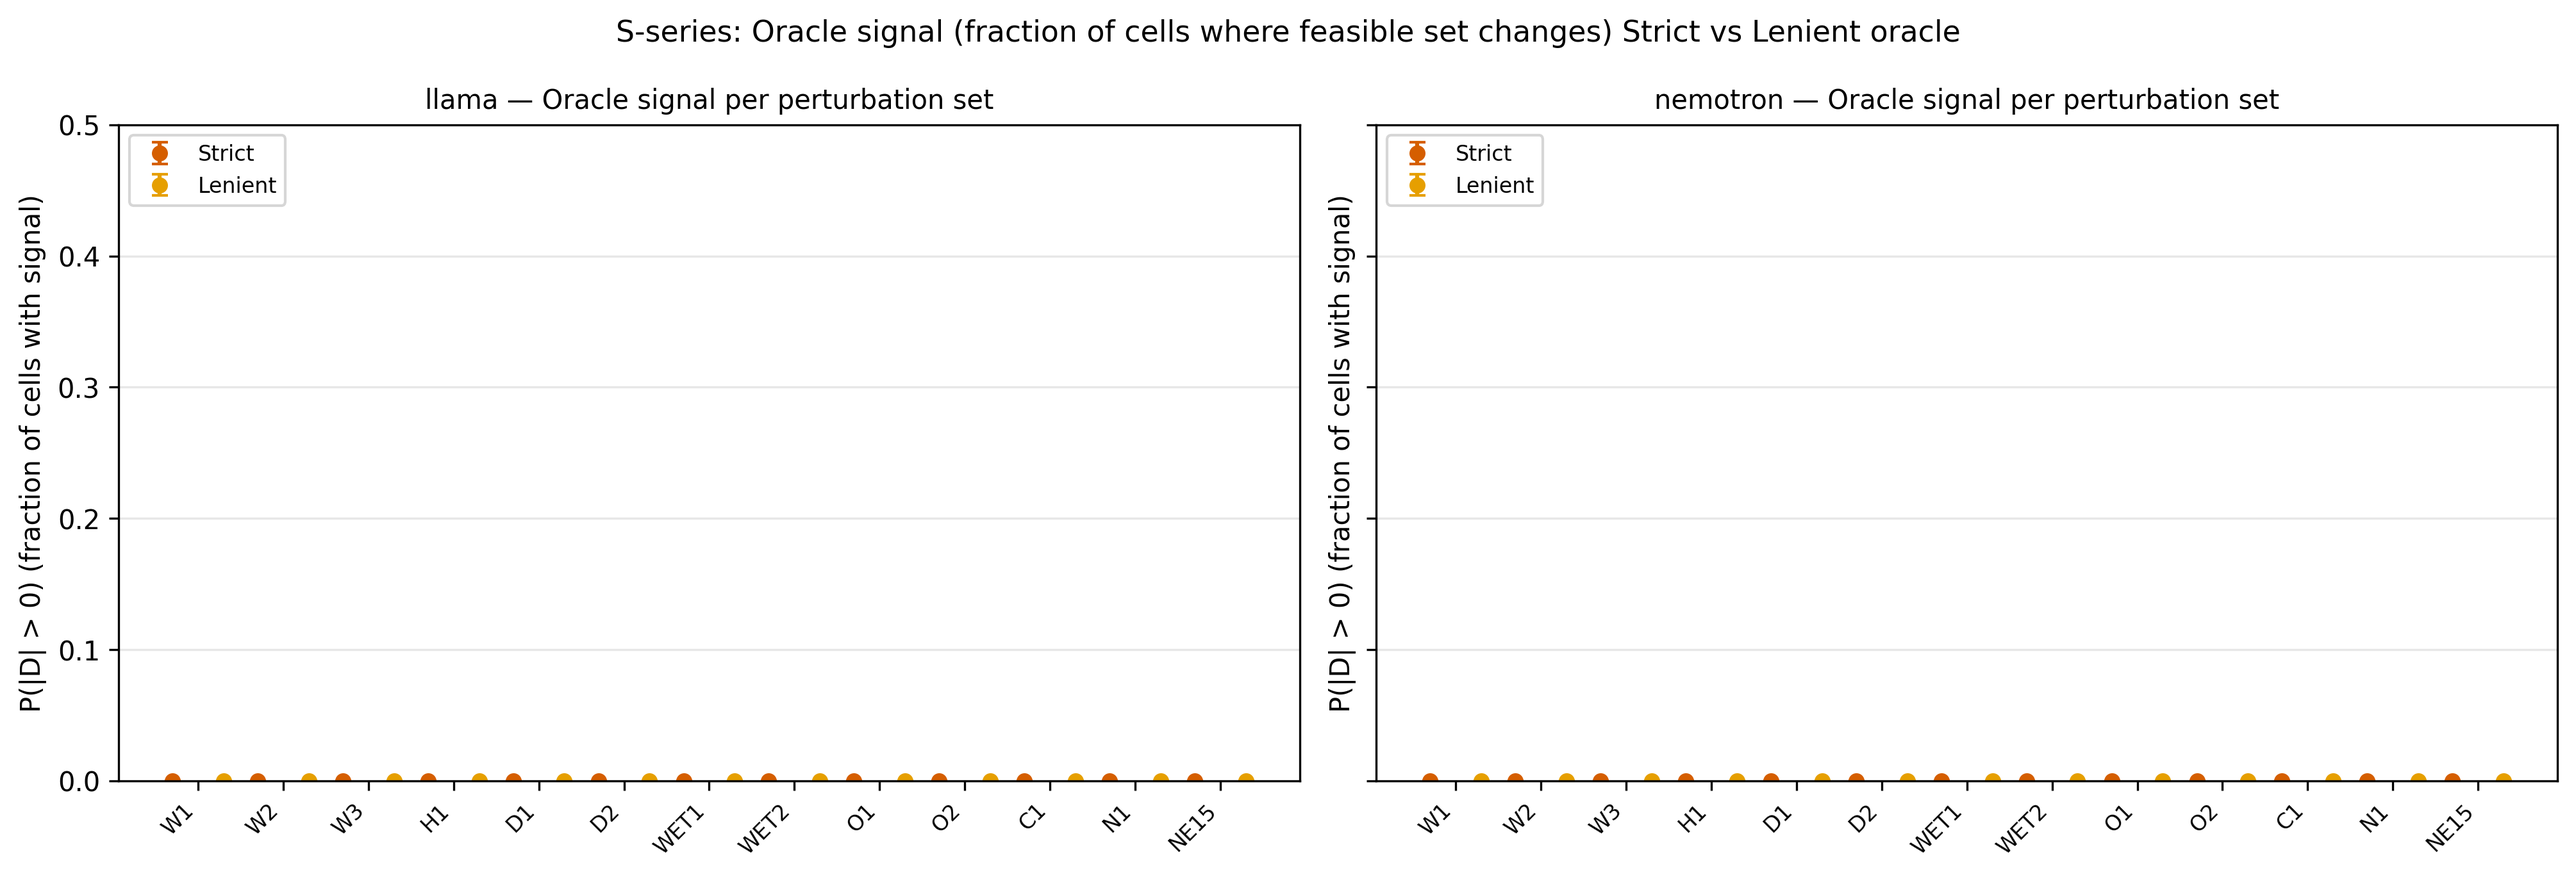
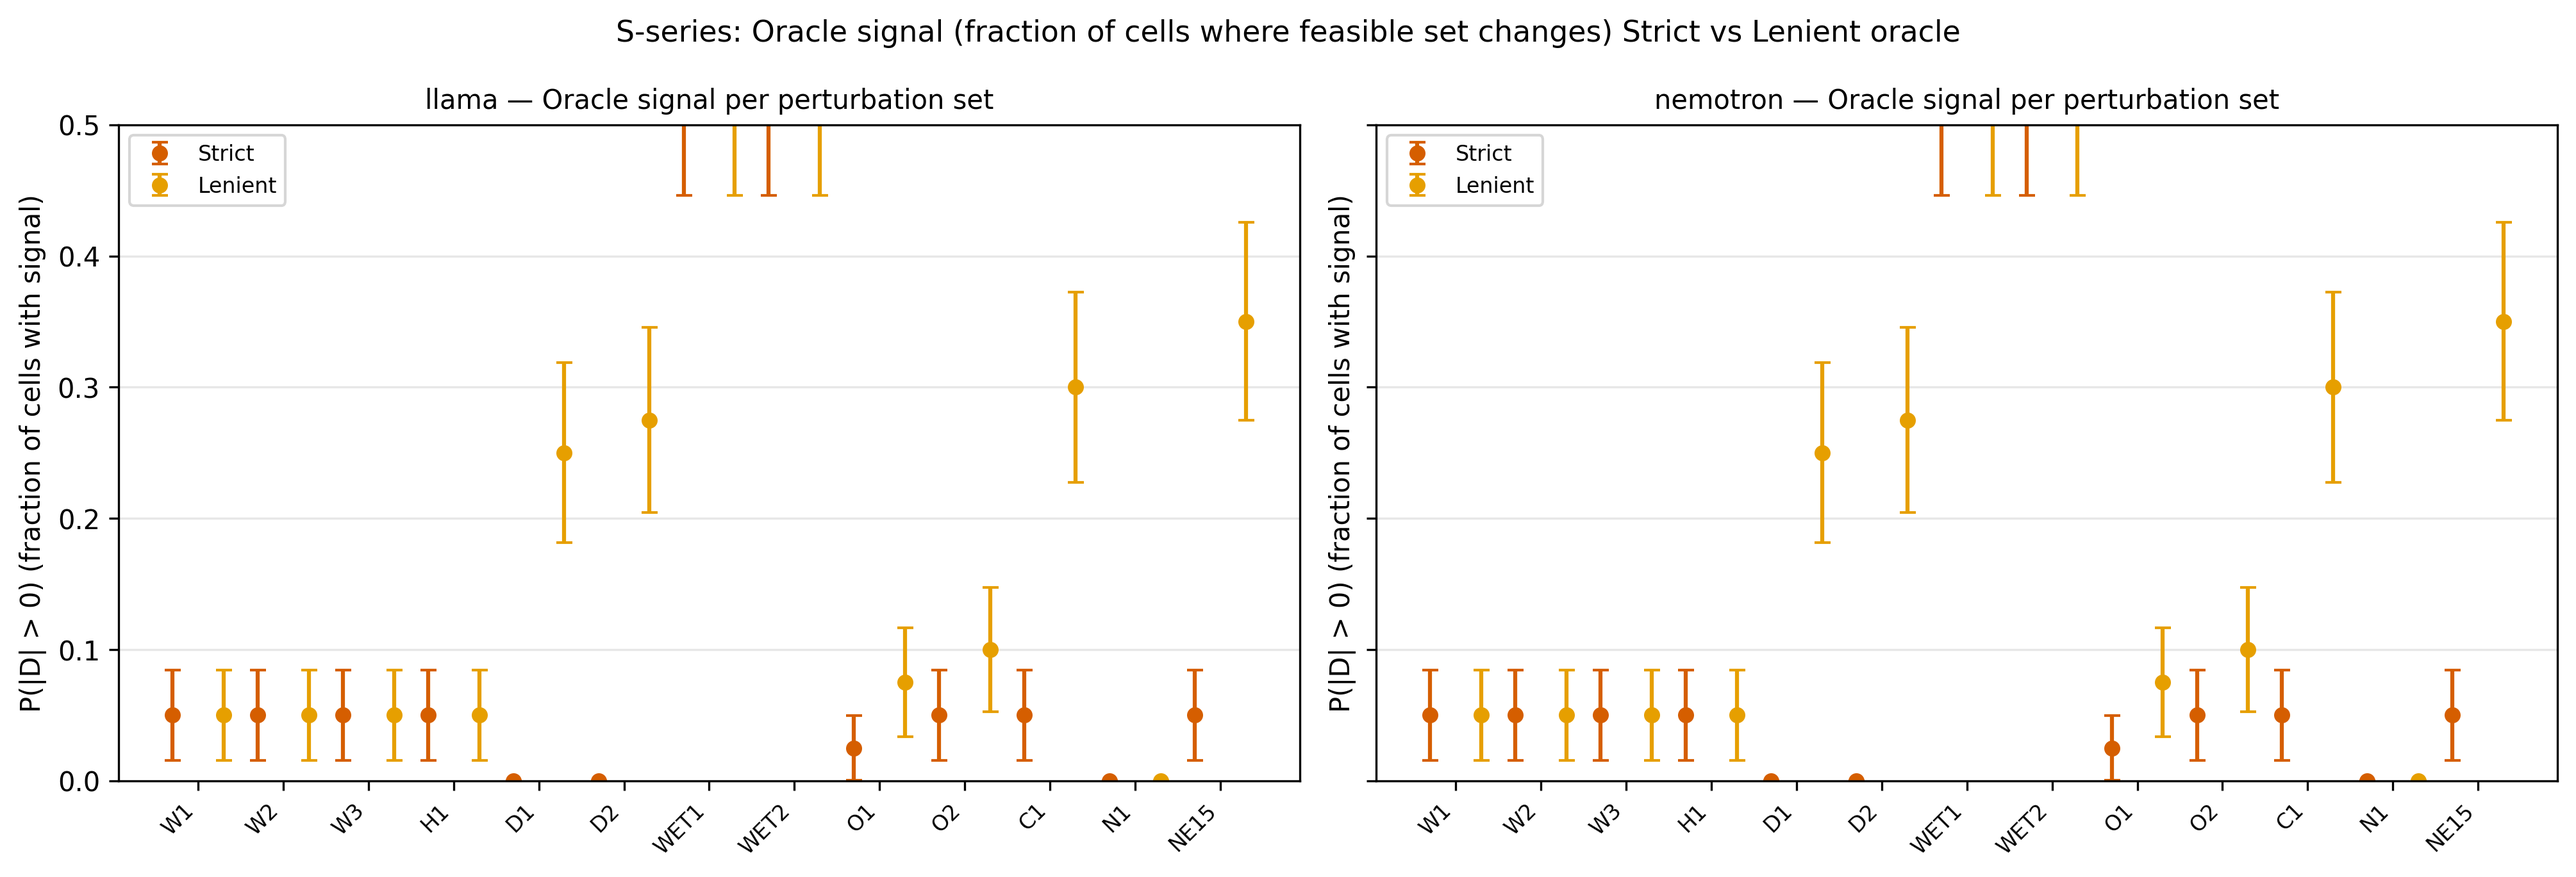
figures: fix oracle signal (F16) - use correct per-set signal data from s_scores.json
- Was using incomplete s_oracle_signal.json (only N1 control)
- Now uses s_scores.json['signal'] which has all 13 perturbation sets × 2 modes
- Signal rates: WET1/WET2 52.5%, D1/D2 lenient 25-27.5%, C1 lenient 30%, N1 0%

diff --git a/figures/scripts/s_figures.py b/figures/scripts/s_figures.py
@@ -395,11 +395,11 @@ def oracle_signal_fig() -> None:
         for off, mode in zip(offsets, ["strict", "lenient"]):
             means, los, his, ns = [], [], [], []
             for s in SETS:
-                key = f"N1"
-                if key in _oracle:
-                    st = _oracle[key][mode]
-                    n_signal = st.get("scenarios_with_signal", 0)
-                    n_total = st.get("newly_infeasible_total", 40)
+                key = f"{s}|{mode}"
+                if key in _scores["signal"]:
+                    st = _scores["signal"][key]
+                    n_signal = st.get("n_sig", 0)
+                    n_total = 40  # base 40 scenarios per set
                     p = n_signal / n_total if n_total > 0 else 0
                     se = np.sqrt(p * (1 - p) / n_total) if n_total > 0 else 0
                     means.append(p)
@@ -410,6 +410,11 @@ def oracle_signal_fig() -> None:
                                  "scope": s, "mode": mode,
                                  "n_signal": n_signal, "n_total": n_total,
                                  "mean": f"{p:.6f}", "lo": f"{p-se:.6f}", "hi": f"{p+se:.6f}"})
+                else:
+                    means.append(0)
+                    los.append(0)
+                    his.append(0)
+                    ns.append(0)
             ax.errorbar(x + off, means, yerr=[los, his], fmt="o", ms=5, lw=1.5,
                         capsize=3, color="#D55E00" if mode == "strict" else "#E69F00",
                         label=mode.capitalize())
